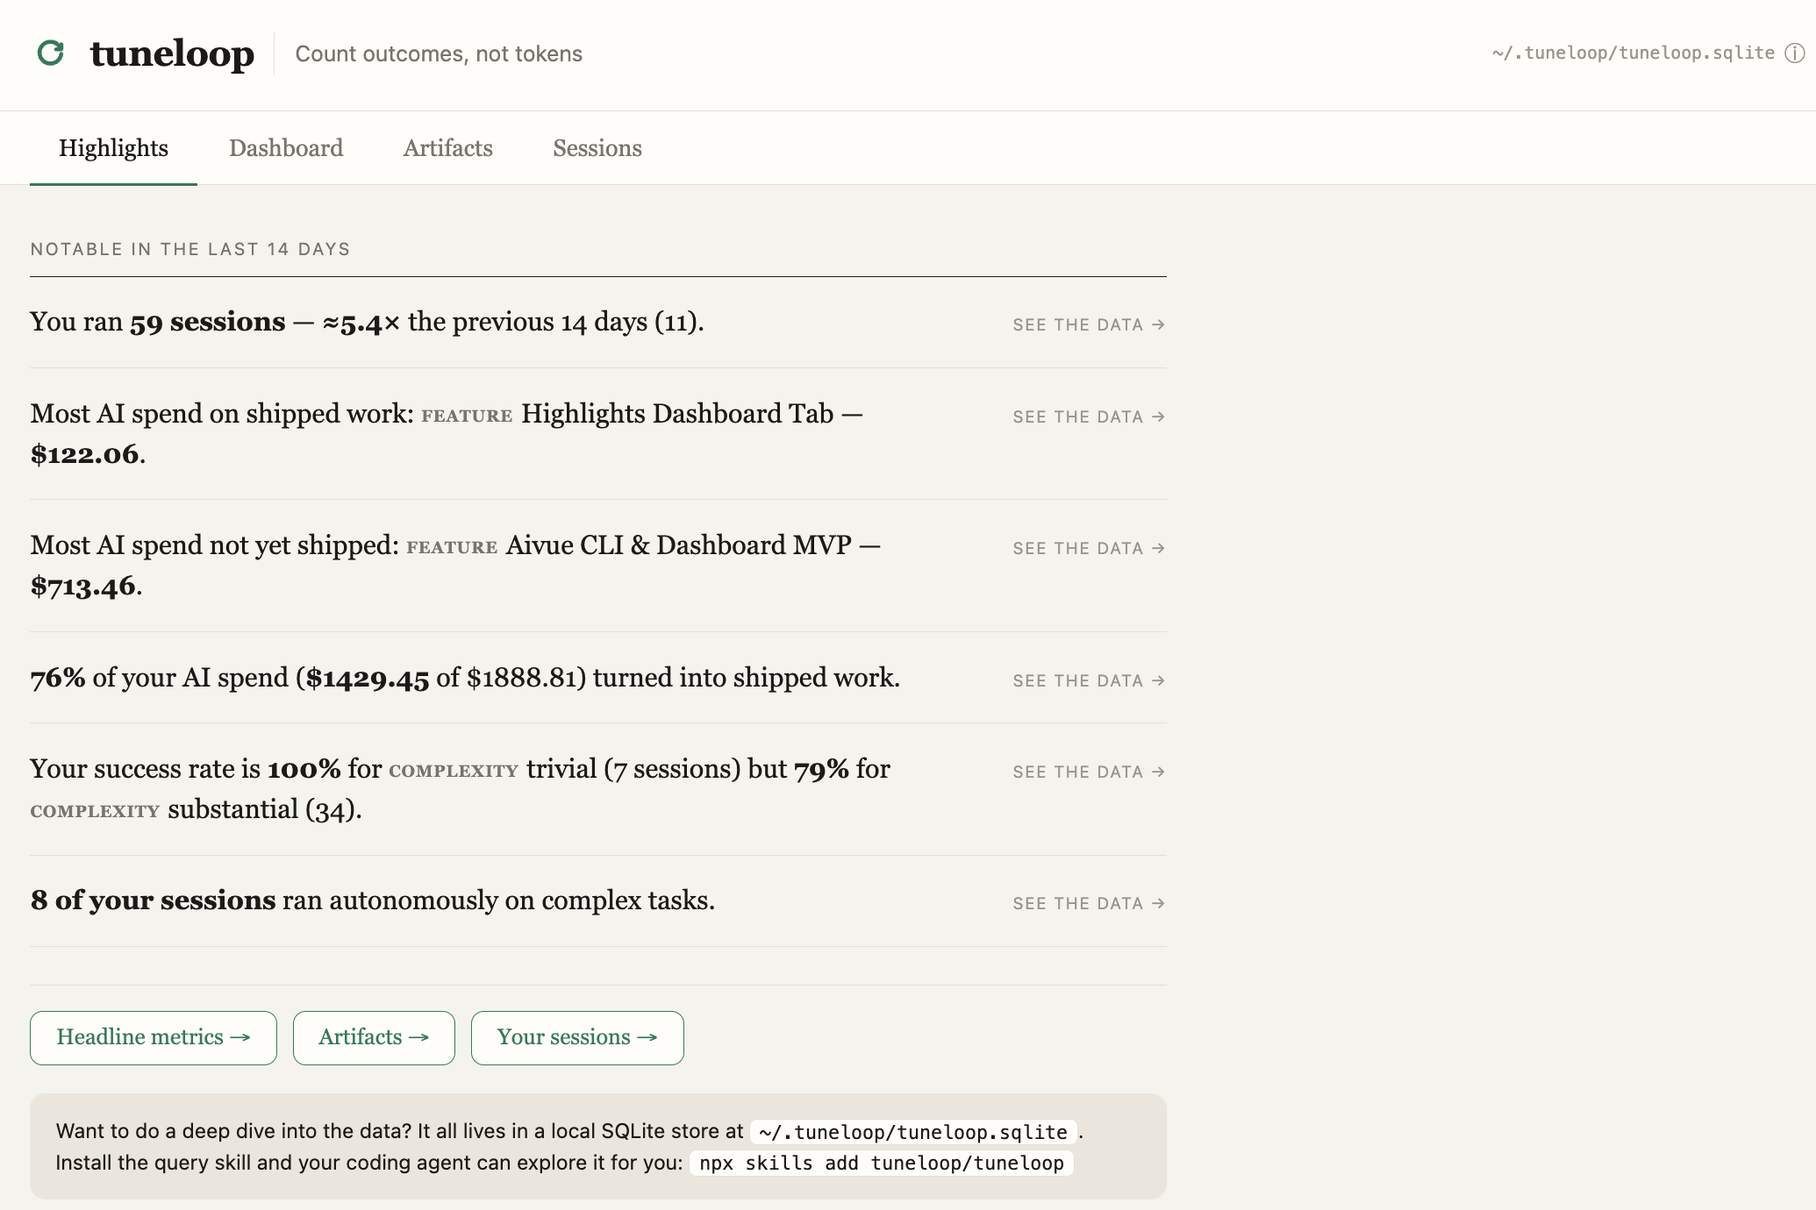
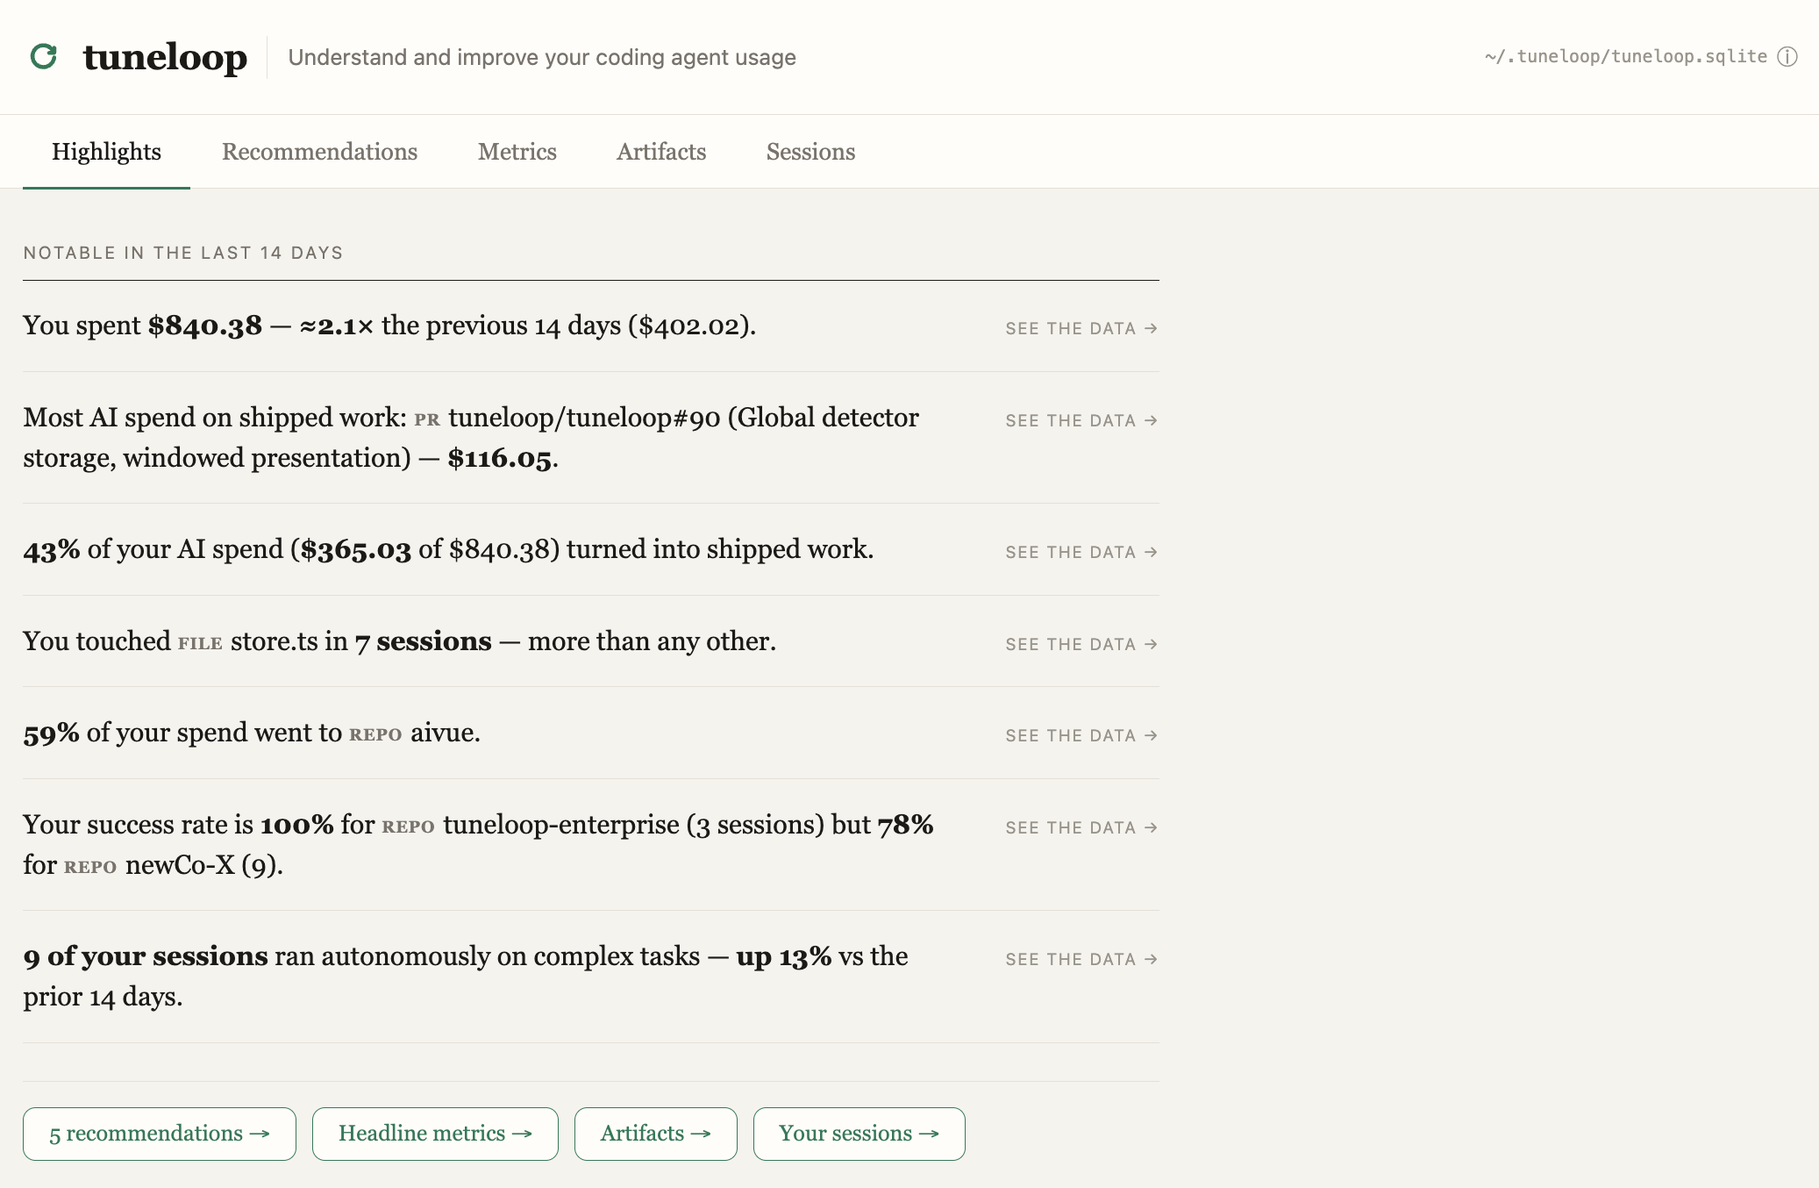
docs: refresh README + ARCHITECTURE for the recommendations release
- README: lead with recommendations, add the Recommendations screenshot, document
  the two model tiers and the Sonnet-class gate for recurring-themes, and refresh
  the analysis-cost estimate (~\$6 / 100 sessions on a Sonnet-class model).
- ARCHITECTURE: document detectors as the third extension point, add a built-in
  detectors section, rename the dashboard tabs (Dashboard -> Metrics, new
  Recommendations tab), and list the new insight/theme/detector tables + views.
- Reposition the tagline to "Understand and improve your coding agent usage"
  (dashboard masthead + CLI description).
- Refresh the dashboard screenshots to the new tagline and clean store path.

diff --git a/src/server/client/public/index.html b/src/server/client/public/index.html
@@ -14,7 +14,7 @@
     <path d="M 24.5 8.5 L 24.5 12.5 L 20.5 12.5" fill="none" stroke="#0f7a55" stroke-width="3.2" stroke-linecap="round" stroke-linejoin="round"/>
   </svg>
   <span class="brand">tuneloop</span>
-  <span class="masthead-tag">Count outcomes, not tokens</span>
+  <span class="masthead-tag">Understand and improve your coding agent usage</span>
   <span class="meta" id="meta"></span>
 </div></header>
 <nav class="tabnav"><div class="inner">

diff --git a/src/cli.ts b/src/cli.ts
@@ -17,7 +17,7 @@ const program = new Command()
 
 program
   .name('tuneloop')
-  .description('Local analytics for your AI coding sessions. Count outcomes, not tokens.')
+  .description('Local analytics for your AI coding sessions. Understand and improve your coding agent usage.')
   .version(version)
 
 const appendValue = (val: string, acc: string[]): string[] => (acc.push(val), acc)

diff --git a/ARCHITECTURE.md b/ARCHITECTURE.md
@@ -2,11 +2,13 @@
 
 tuneloop turns the transcripts your AI coding tools already write — Claude Code,
 Codex, OpenCode, Pi — into a small, queryable set of facts about your work: what you
-built, what it cost, and what shipped. Everything runs locally against a SQLite
-file on your machine. tuneloop never posts your session data anywhere: the only
-thing that leaves is a transcript sent to the LLM provider whose key you supply
-(enrichment only), while its other network calls are read-only — your local `gh`
-for PR status, OpenRouter for a public price list.
+built, what it cost, and what shipped — and, from the patterns across those
+sessions, concrete recommendations for using your coding agent better. Everything
+runs locally against a SQLite file on your machine. tuneloop never posts your
+session data anywhere: the only thing that leaves is a transcript sent to the LLM
+provider whose key you supply (enrichment and the LLM-backed detectors), while its
+other network calls are read-only — your local `gh` for PR status, OpenRouter for a
+public price list.
 
 This document is a map for anyone who wants to understand the internals, add
 support for a new tool, or bend the metrics to their own definition of "shipped".
@@ -14,15 +16,19 @@ support for a new tool, or bend the metrics to their own definition of "shipped"
 ## The pipeline
 
 ```
-discover ──▶ normalize ──▶ extract + enrich ──▶ persist ──▶ read
-[adapter]    [adapter]        [processors]        [store]    [dashboard / query]
+discover ──▶ normalize ──▶ extract + enrich ──▶ persist ──▶ detect ──▶ read
+[adapter]    [adapter]        [processors]        [store]   [detectors]  [dashboard / query]
 ```
 
-## The two extension points
+Processors derive per-session facts; **detectors** then read those facts back
+across every session and write **insights** (the recommendations) into the same
+store. The dashboard and `query` only ever read.
 
-Almost everything you'd want to change lives behind two small interfaces, both
+## The three extension points
+
+Almost everything you'd want to change lives behind three small interfaces, all
 kept in registries (`src/core/registry.ts`). `src/register.ts` imports the
-built-ins for their registration side effects.
+built-ins (adapters, processors, detectors) for their registration side effects.
 
 ### 1. Source adapters — teach tuneloop a new tool
 
@@ -92,6 +98,43 @@ shows up as a distribution card and a filter automatically, because the store's
 `annotations` table is a generic key/value store and the dashboard renders
 whatever facets are registered.
 
+### 3. Detectors — surface a recommendation
+
+Where a `Processor` derives a fact about *one* session, a `Detector`
+(`src/core/detector.ts`, `src/detectors/`) looks *across* sessions for a recurring
+pattern worth acting on and emits an **insight**: a titled finding with a severity,
+the evidence turns behind it, and — where it can — a ready-to-apply **fix**.
+
+```ts
+interface Detector {
+  name: string
+  version: number                    // bump to re-mint this detector's insights
+  tier: 'S' | 'P' | 'X'              // compute pattern (see below)
+  needsLlm?: boolean                 // P/X gate: no LLM key → skipped
+  applicable?(ctx): boolean          // extra gate, e.g. a minimum model tier
+  run(ctx): Promise<DetectorResult>  // queries the store, returns insights
+}
+```
+
+`tier` is the compute pattern, since that's what gates feasibility:
+
+- **S** — static: everything it needs is already in the store (or local config).
+  Free, and re-runs every analyze. *cache-miss, unused-capabilities,
+  context-exhaustion.*
+- **P** — per-session LLM: one call per session, cached by `(version, session)`.
+  *kitchen-sink.*
+- **X** — cross-session LLM: a rolling-window synthesis over many sessions — a new
+  analysis-spend shape. *recurring-themes.*
+
+Detectors get a read-only view of the store (`ctx.store` for SQL, `loadSession` to
+hydrate a transcript, `unseenSessions()` for the incremental delta) and never write
+directly — the runner persists what `run()` returns. Adding one mirrors a
+processor: implement `Detector`, `registerDetector` it, and add the import to
+`src/detectors/index.ts`. The LLM detectors run in a shared "Step 2/2" phase after
+the processors on the cheap per-session model by default; a detector opts into the
+stronger tier by declaring `model: 'heavy'` (see Enrichment). The built-ins are
+catalogued under [Built-in detectors](#built-in-detectors-srcdetectors).
+
 ## The normalized model (`src/core/model.ts`)
 
 The contract every processor reads, identical across vendors. A `Session` has:
@@ -130,6 +173,27 @@ PR and is never double-counted. When more than one processor proposes a PR link
 for the same block, a fixed precedence (`prBlockRank` in `store.ts`) picks the
 single winner.
 
+## Built-in detectors (`src/detectors/`)
+
+Detectors power the **Recommendations** tab. Each surfaces a recurring, actionable
+pattern as an insight and, where possible, attaches a fix you can apply.
+
+| Detector | Tier | What it flags |
+|---|---|---|
+| `cache-miss` | S | Repos burning money on prompt-cache misses — observed cold turns re-paying for context, with the avoidable premium. |
+| `unused-capabilities` | S | MCP servers and skills installed into the harness but never invoked — dead startup weight to remove or scope per-repo. |
+| `context-exhaustion` | S | Repos whose sessions keep hitting the context window and compacting — a nudge to split work or lean on subagents. |
+| `kitchen-sink` | P | Single sessions that mixed several unrelated objectives — where the session should have been split. |
+| `recurring-themes` | X | Clusters the corrections and re-supplied context you had to repeat across sessions into themes, each with a generated fix. Gated to a Sonnet-class-or-stronger model. |
+
+**Fixes.** An insight's fix is one of four types, by the action it expects: a
+**fix-prompt** (a self-contained prompt — diagnosis, evidence excerpts, acceptance
+criterion — you paste into your agent), a **config-snippet** (drop into
+`settings.json` / `.mcp.json`), an **install-command** (a one-liner to run), or a
+**behavioral-nudge** (a habit to change, no artifact). Insight state (surfaced /
+resolved / dismissed) lives in `insight_state_log`, so a dismissed insight stays
+down unless the pattern genuinely recurs.
+
 ## Storage (`src/store/`)
 
 SQLite, **fact tables only — no pre-computed metrics.** Every number on the
@@ -155,14 +219,30 @@ The tables (`src/store/db.ts`):
 - `processor_runs` — the cache and per-analysis cost
 - `files_index` — file → session index for search
 - `user_link_overrides` — your manual link corrections, locked from auto-clobber
+- `insights`, `insight_evidence`, `insight_state_log` — the recommendations ledger:
+  one row per surfaced insight, its evidence turns, and its lifecycle log
+- `detector_runs`, `detector_session_runs` — the detector cache and per-analysis
+  detector cost (a lifetime total, since detector runs are incremental)
+- `theme`, `theme_events` — `recurring-themes`' cross-session friction clusters and
+  their member occurrences, kept so a theme outlives any single insight
+- `kitchen_sink_verdict` — per-session kitchen-sink judgments
+- `environment_snapshots` — per-session harness config (installed MCP servers /
+  skills); the "installed" set `unused-capabilities` diffs against actual usage
+
+Several detectors classify in SQL rather than JS: the `cache_classified_turn` /
+`cache_miss_event`, `compaction_event`, and `capability_invocation` /
+`capability_usage` **views** (also in `db.ts`) turn raw usage rows into the events
+those detectors window over.
 
 ## The dashboard
 
 `serve` starts a local, loopback-only web server (`src/server/`, client in
-`src/server/client/`) and prints its URL. Four tabs:
+`src/server/client/`) and prints its URL. Five tabs:
 
 - **Highlights** — a plain-language landing summary of recent work.
-- **Dashboard** — the five headline metrics (below), each a clickable tile that
+- **Recommendations** — the insights from the detectors above, ranked, each with
+  its evidence and a fix to apply.
+- **Metrics** — the five headline metrics (below), each a clickable tile that
   expands into a detail view of charts.
 - **Artifacts** — your features and PRs; mark a feature shipped, fix a link, add
   a missing one.
@@ -212,21 +292,29 @@ the agent fought its environment. The detail view charts the error rate over tim
 breaks errors down by category, and shows raw tool-call counts — with a separate
 Skills tab for skill-usage counts.
 
-## Enrichment (`src/llm/`)
+## Enrichment and the LLM tiers (`src/llm/`)
 
-`enrich-session` is the one processor that calls an LLM, and only if you supply a
-key. It sends one structured, batched request per session and never sees more than
-your transcript. Provider presets (`src/llm/providers.ts`): `anthropic`,
-`openai`, `openrouter`, `groq`, `deepseek`, `gemini`, `together`, `fireworks`,
-`xai`, `ollama`, plus `openai-compatible` for any other OpenAI-shaped endpoint.
-Without a key, every static processor still runs — you
-just lose the LLM-derived labels (work type, complexity, feature names, the
-success judgment).
+`enrich-session` is the one *processor* that calls an LLM: one structured, batched
+request per session, and only if you supply a key. The P/X-tier **detectors**
+(`kitchen-sink`, `recurring-themes`) call the LLM too. Every call sees only your
+transcript. Provider presets (`src/llm/providers.ts`): `anthropic`, `openai`,
+`bedrock` (Claude via AWS), `openrouter`, `groq`, `deepseek`, `gemini`, `together`,
+`fireworks`, `xai`, `ollama`, plus `openai-compatible` for any other OpenAI-shaped
+endpoint.
+
+Two model tiers share one provider: `TUNELOOP_LLM_MODEL` handles the per-session
+volume (a cheap model is the right call), and detectors opt into an optional
+stronger sibling (`TUNELOOP_LLM_MODEL_HEAVY`) one at a time via `model: 'heavy'` —
+today only `recurring-themes`, which needs a Sonnet-class model and is skipped when
+the model it runs on is below that tier. Without any key, every static processor and
+every S-tier detector still runs; you lose only the LLM-derived labels and the
+LLM-backed recommendations.
 
 ## Commands (`src/cli.ts`, `src/commands/`)
 
 - **`analyze [dirs]`** — the write path: discover → normalize → run processors →
-  persist. Then serves the dashboard by default (`--no-serve` to skip).
+  persist → run detectors. Then serves the dashboard by default (`--no-serve` to
+  skip).
 - **`serve`** — the read path: open the dashboard over an already-analyzed store.
   Prints the URL and waits for you to press Enter before opening a browser tab
   (`--no-open` to serve headless).
@@ -252,9 +340,10 @@ of its upstream data.
 ```
 src/
   adapters/      one dir per tool (claude-code, codex, opencode, pi) + types.ts
-  core/          model, processor + adapter interfaces, registry, runner,
-                 blocks, turns, merge, hashing
-  processors/    the built-in facts (see the table above)
+  core/          model, processor + adapter + detector interfaces, registry,
+                 runner, blocks, turns, merge, hashing
+  processors/    the built-in per-session facts (see the table above)
+  detectors/     the cross-session detectors → insights (the Recommendations tab)
   store/         SQLite schema (db.ts), the Store API, patch application
   llm/           provider presets + Anthropic/OpenAI clients + JSON coercion
   pricing/       static price table + OpenRouter backfill
@@ -265,6 +354,7 @@ src/
 ```
 
 Tests sit next to what they cover as `*.test.ts` (run with `npm test`). The
-extension surface is deliberately narrow: to support a new tool, write an
-adapter; to derive a new fact or redefine an outcome, write a processor;
-everything else is a query over facts the store already holds.
+extension surface is deliberately narrow: to support a new tool, write an adapter;
+to derive a new fact or redefine an outcome, write a processor; to surface a new
+recommendation, write a detector; everything else is a query over facts the store
+already holds.

diff --git a/README.md b/README.md
@@ -1,14 +1,16 @@
 # tuneloop
 
-Local analytics for your AI coding sessions. **Count outcomes, not tokens.**
+Local analytics for your AI coding sessions. **Understand and improve your
+coding agent usage.**
 
 tuneloop turns the session transcripts your AI coding tools already write into a
-local dashboard of what you actually shipped, what it cost, and your work patterns.
+local dashboard that gives you cost attribution (what each PR / feature cost)
+and recommendations for more effective usage grounded in your sessions.
 
 <br>
 
 <p align="center">
-  <img src="docs/img/cost_per_artifact.png" alt="tuneloop dashboard — headline metrics (outcome rate, cost per shipped artifact, spend, sessions, tool error rate) above a per-PR cost breakdown treemap" width="900">
+  <img src="docs/img/cost_per_artifact.png" alt="tuneloop dashboard — headline metrics (cost per shipped artifact, session outcome rate, spend, sessions, tool error rate) above a per-PR cost breakdown treemap" width="900">
 </p>
 
 <br>
@@ -22,6 +24,10 @@ Concretely, it enriches each session with:
 - **Work type**
 - **Key decisions**
 - **Tool error categories**
+
+and across sessions, identifies:
+- **Agent re-work / re-steer themes**
+- **Patterns of deviations from best practices**
 
 Combined with the data already in the transcript — model, agent harness, repo, and
 more — this data lets you answer questions like:
@@ -82,15 +88,10 @@ the full list and what each does.
 
 The dashboard reads everything live from a local SQLite store:
 
-- **Session outcome rate** — how many of your sessions ended in a win (you pick what counts).
 - **Cost per shipped artifact** — dollars of AI spend per merged PR or per shipped feature.
+- **Session outcome rate** — how many of your sessions ended in a win (you pick what counts).
 - **Total spend** — over time, split by model, work type, or repo.
 - **Tool & skill usage** — call counts, error rates, and error categories across every session.
-- A **filterable session viewer**, with the full transcript and file changes behind each one.
-    - Easy transcript navigation (turn-by-turn, errors, free text search, and
-      outcomes). For example: you can jump to the part of the session where
-      you worked on a particular feature or code change.
-    - Filter sessions that touched a particular file / PR / feature.
 
 Cost, tools, files, and git/PR outcomes come from static analysis — no setup or
 API key. Work type, complexity, autonomy, and feature names come from [LLM
@@ -107,8 +108,10 @@ dashboard useful depends on it.
 
 <br>
 
-And every session is a readable transcript you can navigate turn-by-turn, by work
-type, or by error — with the files it changed alongside:
+A **filterable session viewer**, with the full transcript and file changes behind each one.
+
+- Easy transcript navigation (turn-by-turn, errors, free text search, and outcomes). For example: you can jump to the part of the session where you worked on a particular feature or code change.
+- Filter sessions that touched a particular file / PR / feature.
 
 <br>
 
@@ -117,6 +120,16 @@ type, or by error — with the files it changed alongside:
 </p>
 
 <br>
+
+A set of **recommendations**, grounded in evidence from across your sessions,
+that surface fixes for re-steering you repeatedly had to do, or deviations from
+best practices.
+
+<br>
+
+<p align="center">
+  <img src="docs/img/recommendations_tab.png" alt="tuneloop recommendations — detects re-work themes and deviations from best practices and offers fix recommendations" width="900">
+</p>
 
 ## How it works
 
@@ -150,6 +163,16 @@ block, so a per-PR or per-feature cost reflects only the work that went into it.
 **Metrics** — the five dashboard headlines (outcome rate, cost per shipped artifact,
 total spend, sessions, tool error rate) are each explained in
 [ARCHITECTURE.md](./ARCHITECTURE.md#the-metrics-explained).
+
+**Detection of recurring agent re-work / re-steer themes** — LLM-based analysis
+that identifies patterns from across your sessions where you had to step in and
+course-correct. Surfaces recommendations to fix these — updates to agent files
+(CLAUDE.md / AGENTS.md), skills, tooling or config.
+
+**Identification of deviations from best practices** — Deterministic and
+LLM-as-a-judge checkers that look at things like cache hit rate, context
+management, and unused startup bloat. Surfaces recommendations to fix these —
+updates to config, or simply an informational nudge.
 
 ## Query it from your coding agent
 
@@ -185,6 +208,8 @@ own** LLM key. Your session data goes only to the provider you choose:
 export TUNELOOP_LLM_PROVIDER=anthropic
 export ANTHROPIC_API_KEY=sk-ant-...
 # optional: export TUNELOOP_LLM_MODEL=claude-haiku-4-5
+# recommended (powers the recurring-themes recommendations):
+# export TUNELOOP_LLM_MODEL_HEAVY=claude-sonnet-5
 npx tuneloop analyze
 ```
 
@@ -234,10 +259,12 @@ TUNELOOP_LLM_API_KEY=… npx tuneloop analyze --llm-model my-model
 Enrichment is one structured **tool call** per session, so use a
 tool-call-capable model (all the hosted defaults qualify). Flags override the env
 for one run; the API key is never a flag — set it in the env or paste it at the
-interactive prompt. It's cheap — a typical corpus of ~80
-sessions runs about **$0.60** with Claude Haiku. This cost shows up as **Analysis
-spend** in the summary, priced from a built-in table with an OpenRouter public
-price list filling gaps (cached under `~/.tuneloop/`).
+interactive prompt. It's inexpensive: analyzing ~100 sessions on a Sonnet-class
+model runs about **$6** — per-session enrichment plus the cross-session
+recommendation passes. (Enrich on the default Haiku model and reserve the
+Sonnet-class model for the recommendation detectors, and it costs less.) This
+cost shows up as **Analysis spend** in the summary, priced from a built-in table
+with an OpenRouter public price list filling gaps (cached under `~/.tuneloop/`).
 
 **Two model tiers (optional).** By default one model does everything. The work
 splits into two shapes, though: per-session enrichment is one call per session
@@ -254,9 +281,11 @@ TUNELOOP_LLM_PROVIDER=anthropic ANTHROPIC_API_KEY=sk-ant-... \
 ```
 
 Same provider, key, and base URL as `TUNELOOP_LLM_MODEL` — only the model id
-differs. Leave it unset and every detector uses the base model, unchanged.
-Changing it re-analyzes the full corpus for the detectors that use it, since
-extractions made by the old model aren't comparable to the new one's.
+differs. Leave it unset and every detector uses the base model, unchanged —
+except **recurring-themes**, which needs a Sonnet-class model and is skipped (with
+a warning) when the base model isn't one. Changing it re-analyzes the full corpus
+for the detectors that use it, since extractions made by the old model aren't
+comparable to the new one's.
 
 **Local Ollama** needs a bigger context window and a capable model: the enrichment
 prompt is ~4–6k tokens but Ollama's ~2k default silently truncates it, so start the
